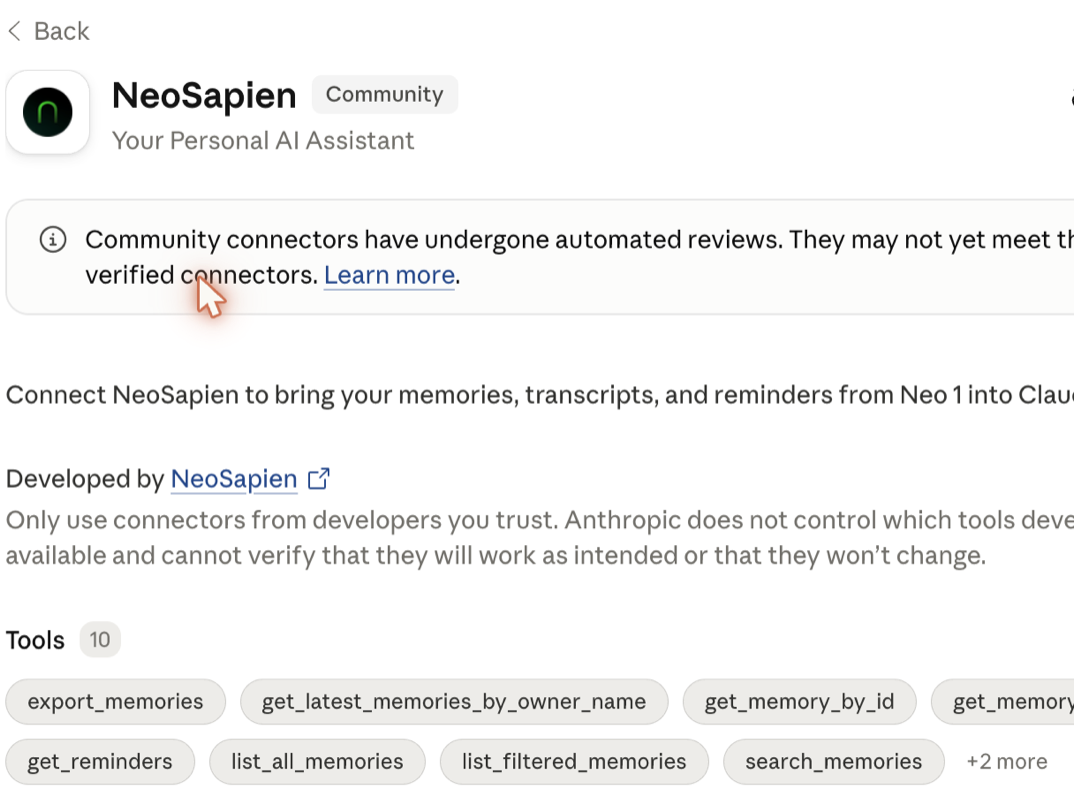
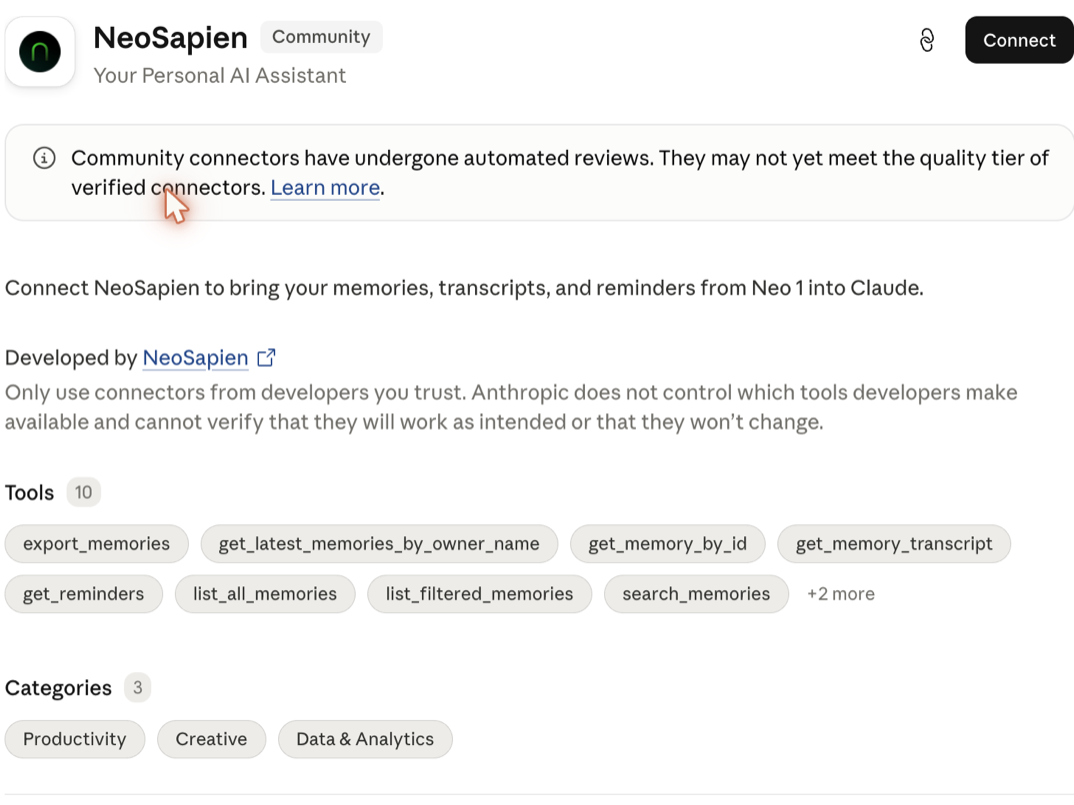
Recapture quick-setup step 3 with the Connect button
Detail page captured in the not-connected state: NeoSapien header,
Community badge, description, tools — and the Connect button the step
asks the user to click. Step copy updated from 'Click +' to 'Click
Connect' to match.

diff --git a/index.html b/index.html
@@ -17,7 +17,7 @@
   <link rel="icon" href="assets/icons/icon-192.png" />
 
   <link rel="preload" href="assets/fonts/worksans-latin.woff2" as="font" type="font/woff2" crossorigin />
-  <link rel="stylesheet" href="css/styles.css?v=12" />
+  <link rel="stylesheet" href="css/styles.css?v=13" />
 </head>
 <body>
   <div id="app" class="screen">
@@ -58,6 +58,6 @@
 
   <div id="toast" class="toast" role="status" aria-live="polite"></div>
 
-  <script src="js/app.js?v=12" type="module"></script>
+  <script src="js/app.js?v=13" type="module"></script>
 </body>
 </html>

diff --git a/sw.js b/sw.js
@@ -1,5 +1,5 @@
 // Neosapien MCP Guide — service worker (offline-first)
-const CACHE = 'neo-mcp-guide-v12';
+const CACHE = 'neo-mcp-guide-v13';
 
 // App shell + core assets pre-cached on install.
 const CORE = [
